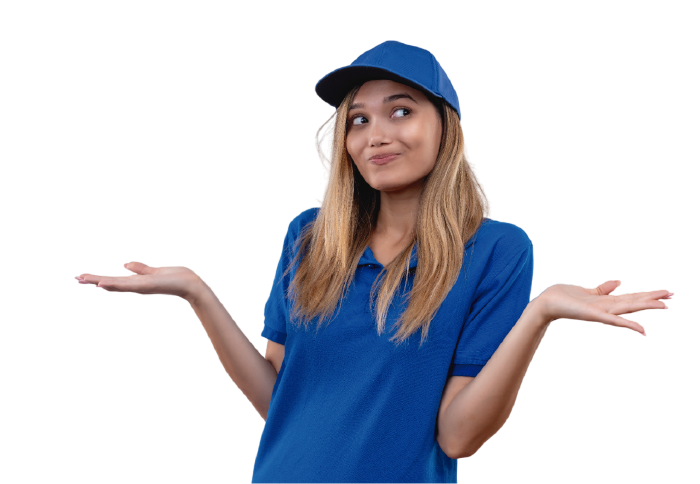
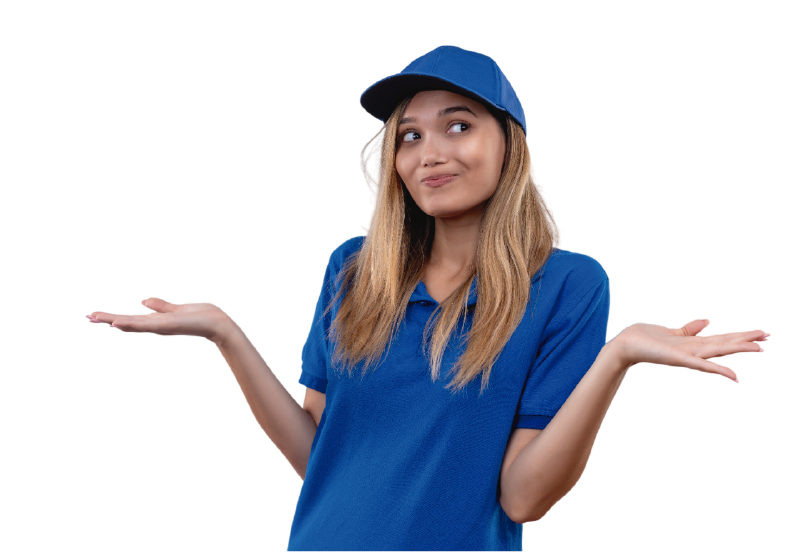
fixed seo img why us

diff --git a/app/components/WhyChoose.jsx b/app/components/WhyChoose.jsx
@@ -1,5 +1,5 @@
 import Image from "next/image"
-import ImgContact from "../../public/images/why-us.webp"
+import ImgWhyChoose from "../../public/images/why-us.webp"
 import Link from "next/link"
 
 export const WhyChoose = () => {
@@ -8,12 +8,12 @@ export const WhyChoose = () => {
         <h3 className="text-center text-4xl font-bold">Why choose Blessed Solutions?</h3>
 
         <div className="flex bg-gray-100 rounded flex-col lg:flex-row mt-10">
-            <div className="lg:w-1/2 flex justify-center">
-                <Image className="rounded" src={ImgContact} width={700} height={484} alt="Plumbing service in Orlando" />
+            <div className="lg:w-3/5 flex justify-center">
+                <Image className="rounded" src={ImgWhyChoose} width={800} height={551} alt="Why choose Plumbing Service" />
             </div>
-            <div className="lg:w-1/2 p-4">
-                <h1 className="text-4xl text-center lg:text-left md:text-5xl uppercase text-main mt-8">Plumbing service in Orlando</h1>
-                <h2 className="text-2xl lg:text-2xl text-main mt-6">Efficient Plumbing Solutions for Your Home or Business</h2>
+            <div className="lg:w-2/5 p-4">
+                <h1 className="text-4xl text-center lg:text-left md:text-5xl uppercase text-main mt-8">Professionals in Plumbing services</h1>
+                <h2 className="text-2xl lg:text-2xl text-main mt-6">Learn more about us and all the solutions we offer</h2>
                 <section className="flex flex-col lg:flex-col">
 
                 <div className="text-md lg:text-xl mt-6 lg:mt-10 md:max-w-2xl lg:hyphens-auto flex flex-col" lang="en">
